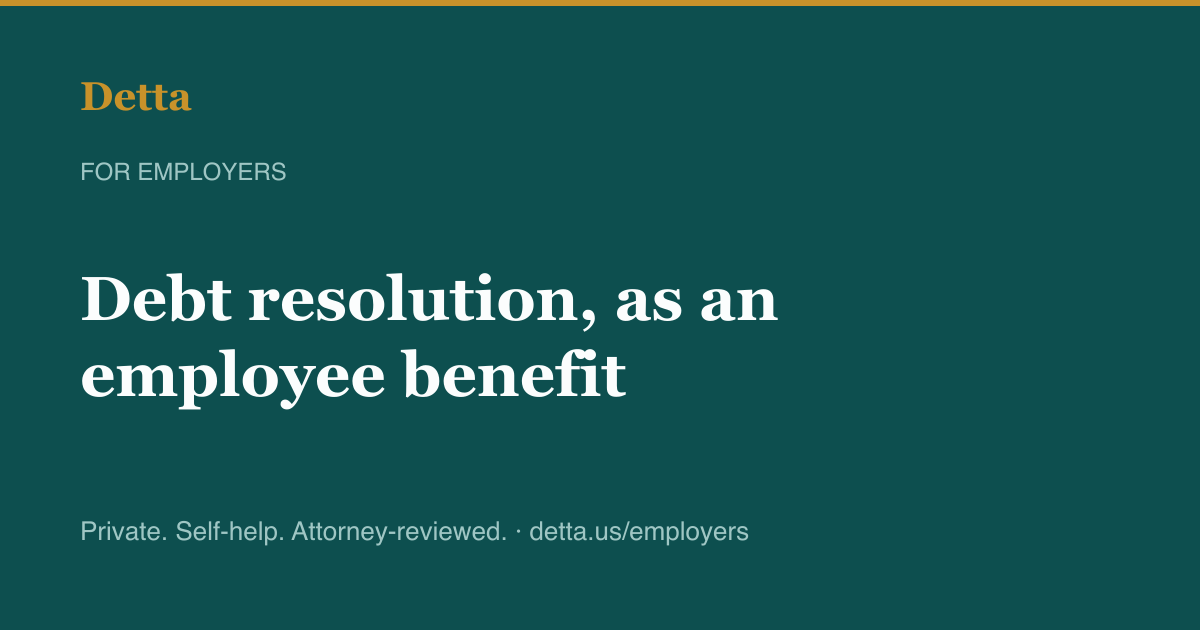
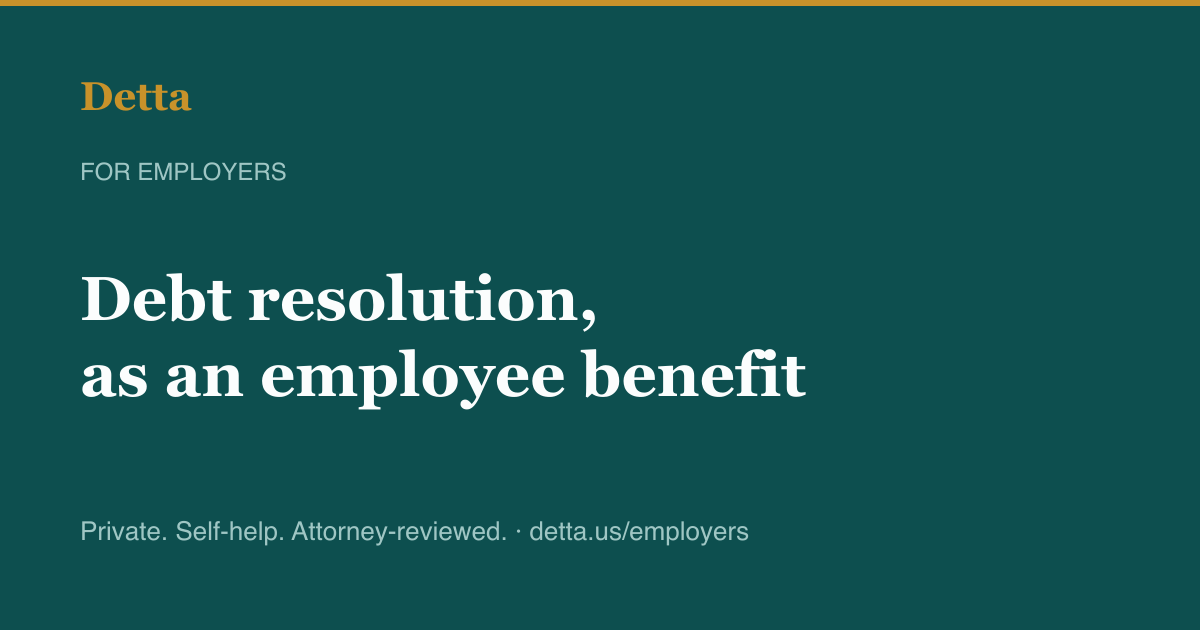
design(footer+employers): canonical grouped footer site-wide; split employers H1
Footer: one identical, consumer-first link order on every page
(Learn / Newsletter / For employers | Trust & Safety / Privacy / Terms |
support email) with thin group dividers, replacing three inconsistent
orders that led with the B2B link. Homepage variant matched.
Employers: H1 broken after the comma for editorial cadence; OG card
re-rendered with the same break.

Changed region(s): [[0.0617, 0.5429, 0.6783, 0.6635], [0.4933, 0.4524, 0.6475, 0.5127]]

diff --git a/employers/index.html b/employers/index.html
@@ -160,7 +160,8 @@
     footer { border-top:1px solid var(--line); margin-top:48px; }
     .footer-inner { max-width:820px; margin:0 auto; padding:28px 24px; color:var(--ink-soft); font-size:14px; }
     .footer-disclaimer { margin:0 0 12px; }
-    .footer-links { display:flex; flex-wrap:wrap; gap:9px 26px; }
+    .footer-links { display:flex; flex-wrap:wrap; align-items:center; gap:9px 22px; }
+    .fsep { width:1px; height:13px; background:var(--line); }
     .footer-links a { color:var(--ink-soft); text-decoration:none; }
     .footer-links a:hover { color:var(--teal); }
   </style>
@@ -170,7 +171,7 @@
   <section class="ehero"><div class="ehero-inner">
     <nav class="crumbs"><a href="/">Home</a> &rsaquo; For employers</nav>
     <p class="eyebrow">Detta for Employers</p>
-    <h1>Debt resolution, as an employee benefit</h1>
+    <h1>Debt resolution,<br />as an employee benefit</h1>
     <p class="lead">Financial-wellness benefits usually cover budgeting and retirement. Detta covers the problem those skip: employees already dealing with collectors, charge-offs, and scary letters. Give your people a private, self-help way out, with guidance reviewed by a consumer-protection attorney.</p>
     <a class="ehero-cta" href="#inquire">Talk to the founders <span aria-hidden="true">&rarr;</span></a>
     <span class="ehero-note">Pre-launch. Selecting a small group of launch partners.</span>
@@ -300,7 +301,15 @@
   <footer><div class="footer-inner">
     <p class="footer-disclaimer">Detta&trade; is self-help software, not a law firm, debt settlement company, or credit-counseling agency. Not legal, financial, or tax advice. Not an offer of securities. Results vary depending on individual circumstances.</p>
     <div class="footer-links">
-      <a href="/employers/">For employers</a><a href="/newsletter/">Newsletter</a><a href="/learn/">Learn</a><a href="/privacy/">Privacy</a><a href="/terms/">Terms</a><a href="/trust/">Trust &amp; Safety</a><a href="mailto:support@detta.us">support@detta.us</a>
+      <a href="/learn/">Learn</a>
+      <a href="/newsletter/">Newsletter</a>
+      <a href="/employers/">For employers</a>
+      <span class="fsep"></span>
+      <a href="/trust/">Trust &amp; Safety</a>
+      <a href="/privacy/">Privacy</a>
+      <a href="/terms/">Terms</a>
+      <span class="fsep"></span>
+      <a href="mailto:support@detta.us">support@detta.us</a>
     </div>
   </div></footer>
   <script src="/waitlist-modal.js" defer></script>

diff --git a/newsletter/issue-01/index.html b/newsletter/issue-01/index.html
@@ -108,7 +108,8 @@
     footer { border-top:1px solid var(--line); margin-top:48px; }
     .footer-inner { max-width:760px; margin:0 auto; padding:28px 24px; color:var(--ink-soft); font-size:14px; }
     .footer-disclaimer { margin:0 0 12px; }
-    .footer-links { display:flex; flex-wrap:wrap; gap:9px 26px; }
+    .footer-links { display:flex; flex-wrap:wrap; align-items:center; gap:9px 22px; }
+    .fsep { width:1px; height:13px; background:var(--line); }
     .footer-links a { color:var(--ink-soft); text-decoration:none; }
     .footer-links a:hover { color:var(--teal); }
   </style>
@@ -153,8 +154,15 @@
   <footer><div class="footer-inner">
     <p class="footer-disclaimer">Detta&trade; is self-help software, not a law firm, debt settlement company, or credit-counseling agency. Not legal, financial, or tax advice. Not an offer of securities. Results vary depending on individual circumstances.</p>
     <div class="footer-links">
+      <a href="/learn/">Learn</a>
+      <a href="/newsletter/">Newsletter</a>
       <a href="/employers/">For employers</a>
-      <a href="/newsletter/">Newsletter</a><a href="/learn/">Learn</a><a href="/privacy/">Privacy</a><a href="/terms/">Terms</a><a href="/trust/">Trust &amp; Safety</a><a href="mailto:support@detta.us">support@detta.us</a>
+      <span class="fsep"></span>
+      <a href="/trust/">Trust &amp; Safety</a>
+      <a href="/privacy/">Privacy</a>
+      <a href="/terms/">Terms</a>
+      <span class="fsep"></span>
+      <a href="mailto:support@detta.us">support@detta.us</a>
     </div>
   </div></footer>
   <script src="/waitlist-modal.js" defer></script>

diff --git a/newsletter/index.html b/newsletter/index.html
@@ -87,7 +87,8 @@
     footer { border-top:1px solid var(--line); margin-top:44px; }
     .footer-inner { max-width:760px; margin:0 auto; padding:28px 24px; color:var(--ink-soft); font-size:14px; }
     .footer-disclaimer { margin:0 0 12px; }
-    .footer-links { display:flex; flex-wrap:wrap; gap:9px 26px; }
+    .footer-links { display:flex; flex-wrap:wrap; align-items:center; gap:9px 22px; }
+    .fsep { width:1px; height:13px; background:var(--line); }
     .footer-links a { color:var(--ink-soft); text-decoration:none; }
     .footer-links a:hover { color:var(--teal); }
   </style>
@@ -170,8 +171,15 @@
   <footer><div class="footer-inner">
     <p class="footer-disclaimer">Detta&trade; is self-help software, not a law firm, debt settlement company, or credit-counseling agency. Not legal, financial, or tax advice. Not an offer of securities. Results vary depending on individual circumstances.</p>
     <div class="footer-links">
+      <a href="/learn/">Learn</a>
+      <a href="/newsletter/">Newsletter</a>
       <a href="/employers/">For employers</a>
-      <a href="/newsletter/">Newsletter</a><a href="/learn/">Learn</a><a href="/privacy/">Privacy</a><a href="/terms/">Terms</a><a href="/trust/">Trust &amp; Safety</a><a href="mailto:support@detta.us">support@detta.us</a>
+      <span class="fsep"></span>
+      <a href="/trust/">Trust &amp; Safety</a>
+      <a href="/privacy/">Privacy</a>
+      <a href="/terms/">Terms</a>
+      <span class="fsep"></span>
+      <a href="mailto:support@detta.us">support@detta.us</a>
     </div>
   </div></footer>
   <script src="/waitlist-modal.js" defer></script>

diff --git a/learn/drowning-in-credit-card-debt/index.html b/learn/drowning-in-credit-card-debt/index.html
@@ -105,7 +105,8 @@
     footer { border-top:1px solid var(--line); margin-top:44px; }
     .footer-inner { max-width:720px; margin:0 auto; padding:28px 24px; color:var(--ink-soft); font-size:14px; }
     .footer-disclaimer { margin:0 0 12px; }
-    .footer-links { display:flex; flex-wrap:wrap; gap:9px 26px; }
+    .footer-links { display:flex; flex-wrap:wrap; align-items:center; gap:9px 22px; }
+    .fsep { width:1px; height:13px; background:var(--line); }
     .footer-links a { color:var(--ink-soft); text-decoration:none; }
     .footer-links a:hover { color:var(--teal); }
   </style>
@@ -175,8 +176,15 @@
   <footer><div class="footer-inner">
     <p class="footer-disclaimer">Detta&trade; is self-help software, not a law firm, debt settlement company, or credit-counseling agency. Not legal, financial, tax, or mental-health advice. Not an offer of securities. Results vary depending on individual circumstances.</p>
     <div class="footer-links">
+      <a href="/learn/">Learn</a>
+      <a href="/newsletter/">Newsletter</a>
       <a href="/employers/">For employers</a>
-      <a href="/learn/">Learn</a><a href="/privacy/">Privacy</a><a href="/terms/">Terms</a><a href="/trust/">Trust &amp; Safety</a><a href="mailto:support@detta.us">support@detta.us</a>
+      <span class="fsep"></span>
+      <a href="/trust/">Trust &amp; Safety</a>
+      <a href="/privacy/">Privacy</a>
+      <a href="/terms/">Terms</a>
+      <span class="fsep"></span>
+      <a href="mailto:support@detta.us">support@detta.us</a>
     </div>
   </div></footer>
   <script src="/waitlist-modal.js" defer></script>

diff --git a/learn/can-a-credit-card-company-sue-you/index.html b/learn/can-a-credit-card-company-sue-you/index.html
@@ -116,7 +116,8 @@
     footer { border-top:1px solid var(--line); margin-top:48px; }
     .footer-inner { max-width:760px; margin:0 auto; padding:28px 24px; color:var(--ink-soft); font-size:14px; }
     .footer-disclaimer { margin:0 0 12px; }
-    .footer-links { display:flex; flex-wrap:wrap; gap:9px 26px; }
+    .footer-links { display:flex; flex-wrap:wrap; align-items:center; gap:9px 22px; }
+    .fsep { width:1px; height:13px; background:var(--line); }
     .footer-links a { color:var(--ink-soft); text-decoration:none; }
     .footer-links a:hover { color:var(--teal); }
   </style>
@@ -198,8 +199,15 @@
   <footer><div class="footer-inner">
     <p class="footer-disclaimer">Detta&trade; is self-help software, not a law firm, debt settlement company, or credit-counseling agency. Not legal, financial, or tax advice. Not an offer of securities. Results vary depending on individual circumstances.</p>
     <div class="footer-links">
+      <a href="/learn/">Learn</a>
+      <a href="/newsletter/">Newsletter</a>
       <a href="/employers/">For employers</a>
-      <a href="/learn/">Learn</a><a href="/privacy/">Privacy</a><a href="/terms/">Terms</a><a href="/trust/">Trust &amp; Safety</a><a href="mailto:support@detta.us">support@detta.us</a>
+      <span class="fsep"></span>
+      <a href="/trust/">Trust &amp; Safety</a>
+      <a href="/privacy/">Privacy</a>
+      <a href="/terms/">Terms</a>
+      <span class="fsep"></span>
+      <a href="mailto:support@detta.us">support@detta.us</a>
     </div>
   </div></footer>
   <script src="/waitlist-modal.js" defer></script>

diff --git a/learn/can-debt-collectors-garnish-wages/index.html b/learn/can-debt-collectors-garnish-wages/index.html
@@ -112,7 +112,8 @@
     footer { border-top:1px solid var(--line); margin-top:48px; }
     .footer-inner { max-width:760px; margin:0 auto; padding:28px 24px; color:var(--ink-soft); font-size:14px; }
     .footer-disclaimer { margin:0 0 12px; }
-    .footer-links { display:flex; flex-wrap:wrap; gap:9px 26px; }
+    .footer-links { display:flex; flex-wrap:wrap; align-items:center; gap:9px 22px; }
+    .fsep { width:1px; height:13px; background:var(--line); }
     .footer-links a { color:var(--ink-soft); text-decoration:none; }
     .footer-links a:hover { color:var(--teal); }
   </style>
@@ -196,8 +197,15 @@
   <footer><div class="footer-inner">
     <p class="footer-disclaimer">Detta&trade; is self-help software, not a law firm, debt settlement company, or credit-counseling agency. Not legal, financial, or tax advice. Not an offer of securities. Results vary depending on individual circumstances.</p>
     <div class="footer-links">
+      <a href="/learn/">Learn</a>
+      <a href="/newsletter/">Newsletter</a>
       <a href="/employers/">For employers</a>
-      <a href="/learn/">Learn</a><a href="/privacy/">Privacy</a><a href="/terms/">Terms</a><a href="/trust/">Trust &amp; Safety</a><a href="mailto:support@detta.us">support@detta.us</a>
+      <span class="fsep"></span>
+      <a href="/trust/">Trust &amp; Safety</a>
+      <a href="/privacy/">Privacy</a>
+      <a href="/terms/">Terms</a>
+      <span class="fsep"></span>
+      <a href="mailto:support@detta.us">support@detta.us</a>
     </div>
   </div></footer>
   <script src="/waitlist-modal.js" defer></script>

diff --git a/learn/credit-card-charge-off/index.html b/learn/credit-card-charge-off/index.html
@@ -122,7 +122,8 @@
     footer { border-top:1px solid var(--line); margin-top:48px; }
     .footer-inner { max-width:760px; margin:0 auto; padding:28px 24px; color:var(--ink-soft); font-size:14px; }
     .footer-disclaimer { margin:0 0 12px; }
-    .footer-links { display:flex; flex-wrap:wrap; gap:9px 26px; }
+    .footer-links { display:flex; flex-wrap:wrap; align-items:center; gap:9px 22px; }
+    .fsep { width:1px; height:13px; background:var(--line); }
     .footer-links a { color:var(--ink-soft); text-decoration:none; }
     .footer-links a:hover { color:var(--teal); }
   </style>
@@ -193,8 +194,15 @@
   <footer><div class="footer-inner">
     <p class="footer-disclaimer">Detta&trade; is self-help software, not a law firm, debt settlement company, or credit-counseling agency. Not legal, financial, or tax advice. Not an offer of securities. Results vary depending on individual circumstances.</p>
     <div class="footer-links">
+      <a href="/learn/">Learn</a>
+      <a href="/newsletter/">Newsletter</a>
       <a href="/employers/">For employers</a>
-      <a href="/learn/">Learn</a><a href="/privacy/">Privacy</a><a href="/terms/">Terms</a><a href="/trust/">Trust &amp; Safety</a><a href="mailto:support@detta.us">support@detta.us</a>
+      <span class="fsep"></span>
+      <a href="/trust/">Trust &amp; Safety</a>
+      <a href="/privacy/">Privacy</a>
+      <a href="/terms/">Terms</a>
+      <span class="fsep"></span>
+      <a href="mailto:support@detta.us">support@detta.us</a>
     </div>
   </div></footer>
   <script src="/waitlist-modal.js" defer></script>

diff --git a/learn/debt-collector-rights/index.html b/learn/debt-collector-rights/index.html
@@ -118,7 +118,8 @@
     footer { border-top:1px solid var(--line); margin-top:48px; }
     .footer-inner { max-width:760px; margin:0 auto; padding:28px 24px; color:var(--ink-soft); font-size:14px; }
     .footer-disclaimer { margin:0 0 12px; }
-    .footer-links { display:flex; flex-wrap:wrap; gap:9px 26px; }
+    .footer-links { display:flex; flex-wrap:wrap; align-items:center; gap:9px 22px; }
+    .fsep { width:1px; height:13px; background:var(--line); }
     .footer-links a { color:var(--ink-soft); text-decoration:none; }
     .footer-links a:hover { color:var(--teal); }
   </style>
@@ -227,8 +228,15 @@
   <footer><div class="footer-inner">
     <p class="footer-disclaimer">Detta&trade; is self-help software, not a law firm, debt settlement company, or credit-counseling agency. Not legal, financial, or tax advice. Not an offer of securities. Results vary depending on individual circumstances.</p>
     <div class="footer-links">
+      <a href="/learn/">Learn</a>
+      <a href="/newsletter/">Newsletter</a>
       <a href="/employers/">For employers</a>
-      <a href="/learn/">Learn</a><a href="/privacy/">Privacy</a><a href="/terms/">Terms</a><a href="/trust/">Trust &amp; Safety</a><a href="mailto:support@detta.us">support@detta.us</a>
+      <span class="fsep"></span>
+      <a href="/trust/">Trust &amp; Safety</a>
+      <a href="/privacy/">Privacy</a>
+      <a href="/terms/">Terms</a>
+      <span class="fsep"></span>
+      <a href="mailto:support@detta.us">support@detta.us</a>
     </div>
   </div></footer>
   <script src="/waitlist-modal.js" defer></script>

diff --git a/learn/debt-collector-scam-red-flags/index.html b/learn/debt-collector-scam-red-flags/index.html
@@ -122,7 +122,8 @@
     footer { border-top:1px solid var(--line); margin-top:48px; }
     .footer-inner { max-width:760px; margin:0 auto; padding:28px 24px; color:var(--ink-soft); font-size:14px; }
     .footer-disclaimer { margin:0 0 12px; }
-    .footer-links { display:flex; flex-wrap:wrap; gap:9px 26px; }
+    .footer-links { display:flex; flex-wrap:wrap; align-items:center; gap:9px 22px; }
+    .fsep { width:1px; height:13px; background:var(--line); }
     .footer-links a { color:var(--ink-soft); text-decoration:none; }
     .footer-links a:hover { color:var(--teal); }
   </style>
@@ -195,8 +196,15 @@
   <footer><div class="footer-inner">
     <p class="footer-disclaimer">Detta&trade; is self-help software, not a law firm, debt settlement company, or credit-counseling agency. Not legal, financial, or tax advice. Not an offer of securities. Results vary depending on individual circumstances.</p>
     <div class="footer-links">
+      <a href="/learn/">Learn</a>
+      <a href="/newsletter/">Newsletter</a>
       <a href="/employers/">For employers</a>
-      <a href="/learn/">Learn</a><a href="/privacy/">Privacy</a><a href="/terms/">Terms</a><a href="/trust/">Trust &amp; Safety</a><a href="mailto:support@detta.us">support@detta.us</a>
+      <span class="fsep"></span>
+      <a href="/trust/">Trust &amp; Safety</a>
+      <a href="/privacy/">Privacy</a>
+      <a href="/terms/">Terms</a>
+      <span class="fsep"></span>
+      <a href="mailto:support@detta.us">support@detta.us</a>
     </div>
   </div></footer>
   <script src="/waitlist-modal.js" defer></script>

diff --git a/learn/debt-relief-options-compared/index.html b/learn/debt-relief-options-compared/index.html
@@ -123,7 +123,8 @@
     footer { border-top:1px solid var(--line); margin-top:48px; }
     .footer-inner { max-width:760px; margin:0 auto; padding:28px 24px; color:var(--ink-soft); font-size:14px; }
     .footer-disclaimer { margin:0 0 12px; }
-    .footer-links { display:flex; flex-wrap:wrap; gap:9px 26px; }
+    .footer-links { display:flex; flex-wrap:wrap; align-items:center; gap:9px 22px; }
+    .fsep { width:1px; height:13px; background:var(--line); }
     .footer-links a { color:var(--ink-soft); text-decoration:none; }
     .footer-links a:hover { color:var(--teal); }
   </style>
@@ -208,8 +209,15 @@
   <footer><div class="footer-inner">
     <p class="footer-disclaimer">Detta&trade; is self-help software, not a law firm, debt settlement company, or credit-counseling agency. Not legal, financial, or tax advice. Not an offer of securities. Results vary depending on individual circumstances.</p>
     <div class="footer-links">
+      <a href="/learn/">Learn</a>
+      <a href="/newsletter/">Newsletter</a>
       <a href="/employers/">For employers</a>
-      <a href="/learn/">Learn</a><a href="/privacy/">Privacy</a><a href="/terms/">Terms</a><a href="/trust/">Trust &amp; Safety</a><a href="mailto:support@detta.us">support@detta.us</a>
+      <span class="fsep"></span>
+      <a href="/trust/">Trust &amp; Safety</a>
+      <a href="/privacy/">Privacy</a>
+      <a href="/terms/">Terms</a>
+      <span class="fsep"></span>
+      <a href="mailto:support@detta.us">support@detta.us</a>
     </div>
   </div></footer>
   <script src="/waitlist-modal.js" defer></script>

diff --git a/learn/debt-snowball-vs-avalanche/index.html b/learn/debt-snowball-vs-avalanche/index.html
@@ -111,7 +111,8 @@
     footer { border-top:1px solid var(--line); margin-top:48px; }
     .footer-inner { max-width:760px; margin:0 auto; padding:28px 24px; color:var(--ink-soft); font-size:14px; }
     .footer-disclaimer { margin:0 0 12px; }
-    .footer-links { display:flex; flex-wrap:wrap; gap:9px 26px; }
+    .footer-links { display:flex; flex-wrap:wrap; align-items:center; gap:9px 22px; }
+    .fsep { width:1px; height:13px; background:var(--line); }
     .footer-links a { color:var(--ink-soft); text-decoration:none; }
     .footer-links a:hover { color:var(--teal); }
   </style>
@@ -183,8 +184,15 @@
   <footer><div class="footer-inner">
     <p class="footer-disclaimer">Detta&trade; is self-help software, not a law firm, debt settlement company, or credit-counseling agency. Not legal, financial, or tax advice. Not an offer of securities. Results vary depending on individual circumstances.</p>
     <div class="footer-links">
+      <a href="/learn/">Learn</a>
+      <a href="/newsletter/">Newsletter</a>
       <a href="/employers/">For employers</a>
-      <a href="/learn/">Learn</a><a href="/privacy/">Privacy</a><a href="/terms/">Terms</a><a href="/trust/">Trust &amp; Safety</a><a href="mailto:support@detta.us">support@detta.us</a>
+      <span class="fsep"></span>
+      <a href="/trust/">Trust &amp; Safety</a>
+      <a href="/privacy/">Privacy</a>
+      <a href="/terms/">Terms</a>
+      <span class="fsep"></span>
+      <a href="mailto:support@detta.us">support@detta.us</a>
     </div>
   </div></footer>
   <script src="/waitlist-modal.js" defer></script>

diff --git a/learn/debt-validation-letter/index.html b/learn/debt-validation-letter/index.html
@@ -117,7 +117,8 @@
     footer { border-top:1px solid var(--line); margin-top:48px; }
     .footer-inner { max-width:760px; margin:0 auto; padding:28px 24px; color:var(--ink-soft); font-size:14px; }
     .footer-disclaimer { margin:0 0 12px; }
-    .footer-links { display:flex; flex-wrap:wrap; gap:9px 26px; }
+    .footer-links { display:flex; flex-wrap:wrap; align-items:center; gap:9px 22px; }
+    .fsep { width:1px; height:13px; background:var(--line); }
     .footer-links a { color:var(--ink-soft); text-decoration:none; }
     .footer-links a:hover { color:var(--teal); }
   </style>
@@ -214,8 +215,15 @@
   <footer><div class="footer-inner">
     <p class="footer-disclaimer">Detta&trade; is self-help software, not a law firm, debt settlement company, or credit-counseling agency. Not legal, financial, or tax advice. Not an offer of securities. Results vary depending on individual circumstances.</p>
     <div class="footer-links">
+      <a href="/learn/">Learn</a>
+      <a href="/newsletter/">Newsletter</a>
       <a href="/employers/">For employers</a>
-      <a href="/learn/">Learn</a><a href="/privacy/">Privacy</a><a href="/terms/">Terms</a><a href="/trust/">Trust &amp; Safety</a><a href="mailto:support@detta.us">support@detta.us</a>
+      <span class="fsep"></span>
+      <a href="/trust/">Trust &amp; Safety</a>
+      <a href="/privacy/">Privacy</a>
+      <a href="/terms/">Terms</a>
+      <span class="fsep"></span>
+      <a href="mailto:support@detta.us">support@detta.us</a>
     </div>
   </div></footer>
   <script src="/waitlist-modal.js" defer></script>
